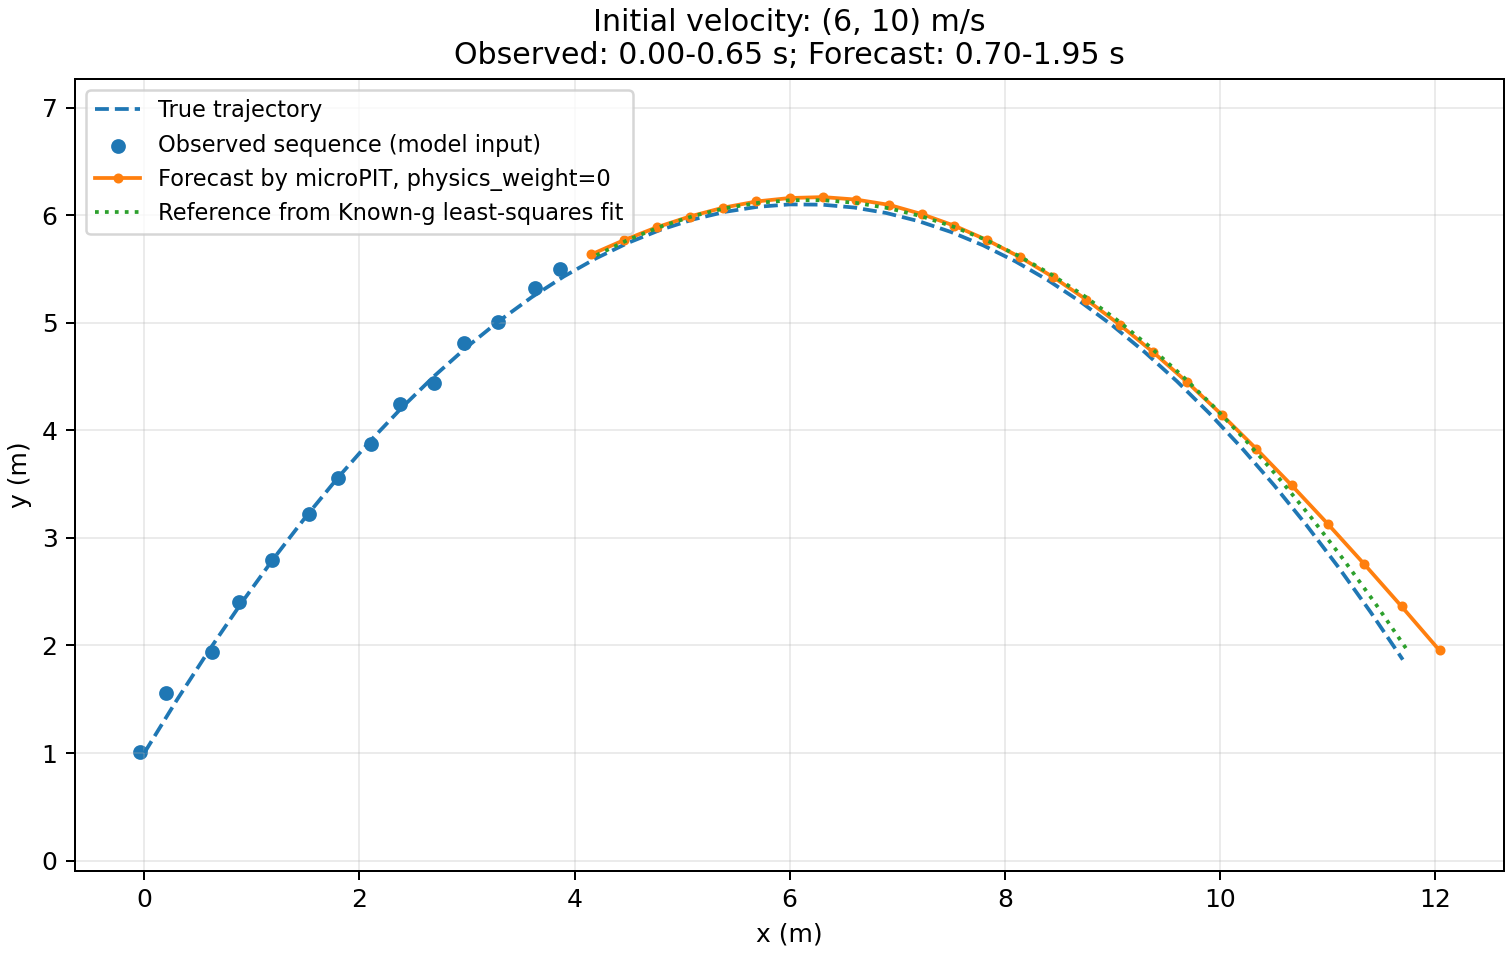
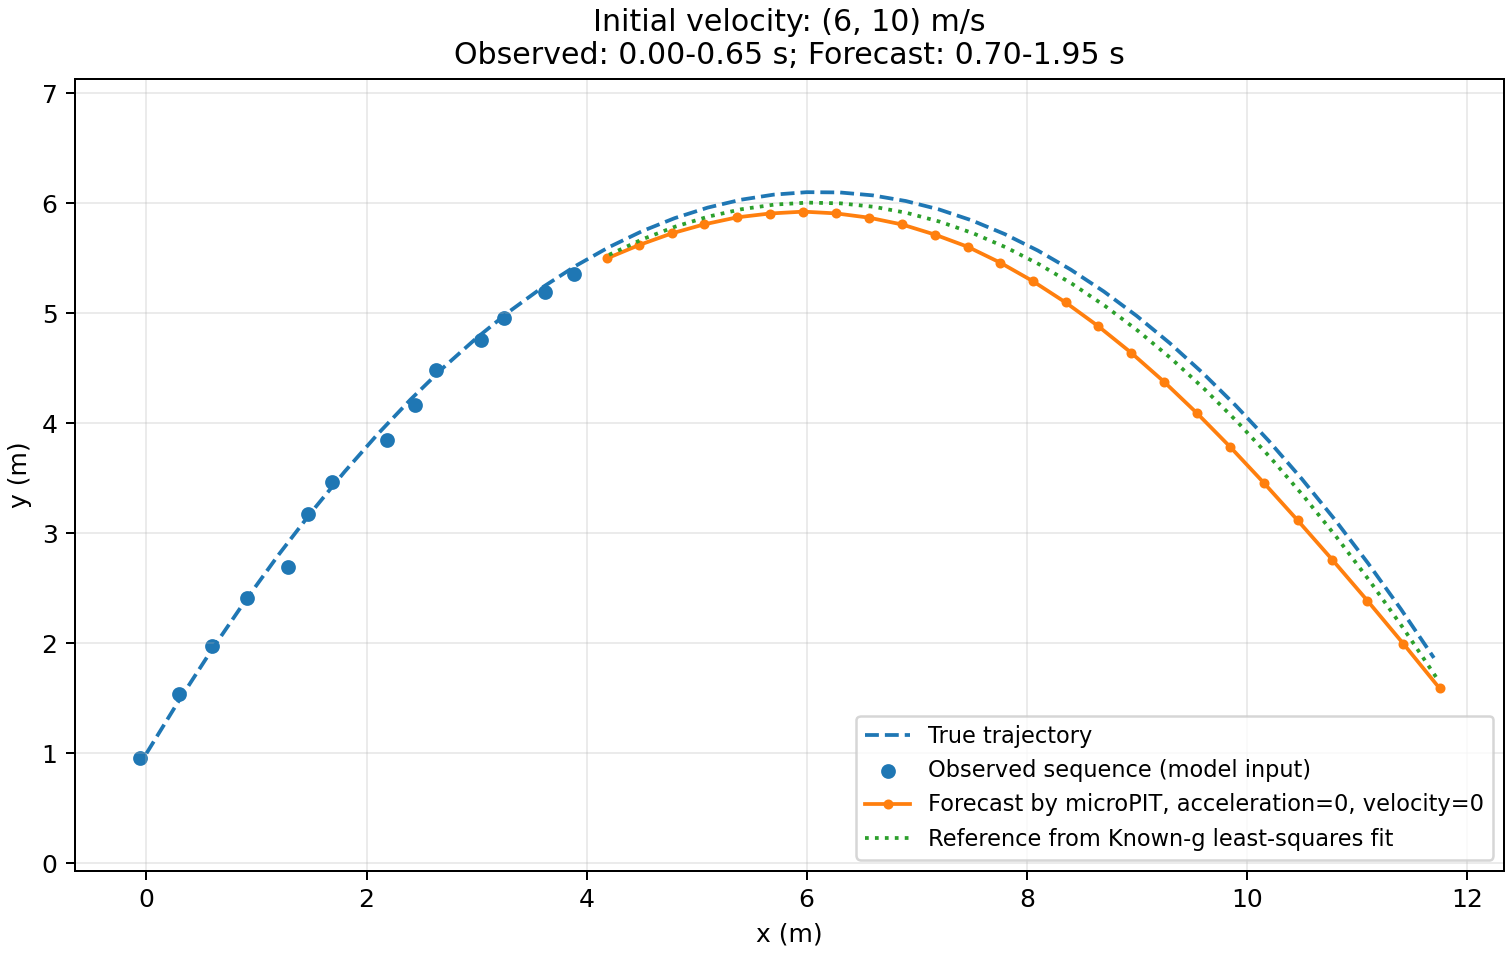
docs: updated readme

diff --git a/README.md b/README.md
@@ -35,15 +35,23 @@ python microgpt_jax.py
 python micropit.py
 ```
 
+Modify `acceleration_weight` in `micropit.py` to see the effect of the acceleration loss, which encourages acceleration `(0, -g)`, on the predicted trajectory.
+
+`velocity_weight` adds a supervised velocity loss using differences between consecutive predicted positions and consecutive clean target positions, divided by `dt`.
+Velocities are normalized by `sqrt(g * position_scale)` before computing the MSE.
+Set `velocity_weight = 0.0` and `acceleration_weight = 0.0` to disable phyisics.
+Output folders include both weights so comparisons are saved separately.
+
+The default training budget is 10,000 updates, configured by `num_steps` in `micropit.py`.
+
 ## Example Output
 
-Modify `physics_weight` in `micropit.py` to see the effect of physics-informed loss on the predicted trajectory.
+> NOTE: Values below may not be optimal.
 
-> NOTE: Value below may not be the optimal setting.
-
-| Physics OFF<br>(physics_weight = 0.00) | Physics ON<br>(physics_weight = 0.025) |
+| Physics OFF | Physics ON |
 |-------------|------------|
 | ![Physics OFF](docs/fig/trajectory_0.00.png) | ![Physics ON](docs/fig/trajectory_0.025.png) |
+| acceleration_weight = 0.00<br>velocity_weight = 0.00 | acceleration_weight = 0.025<br>velocity_weight = 0.025 |
 
 ## License
 
